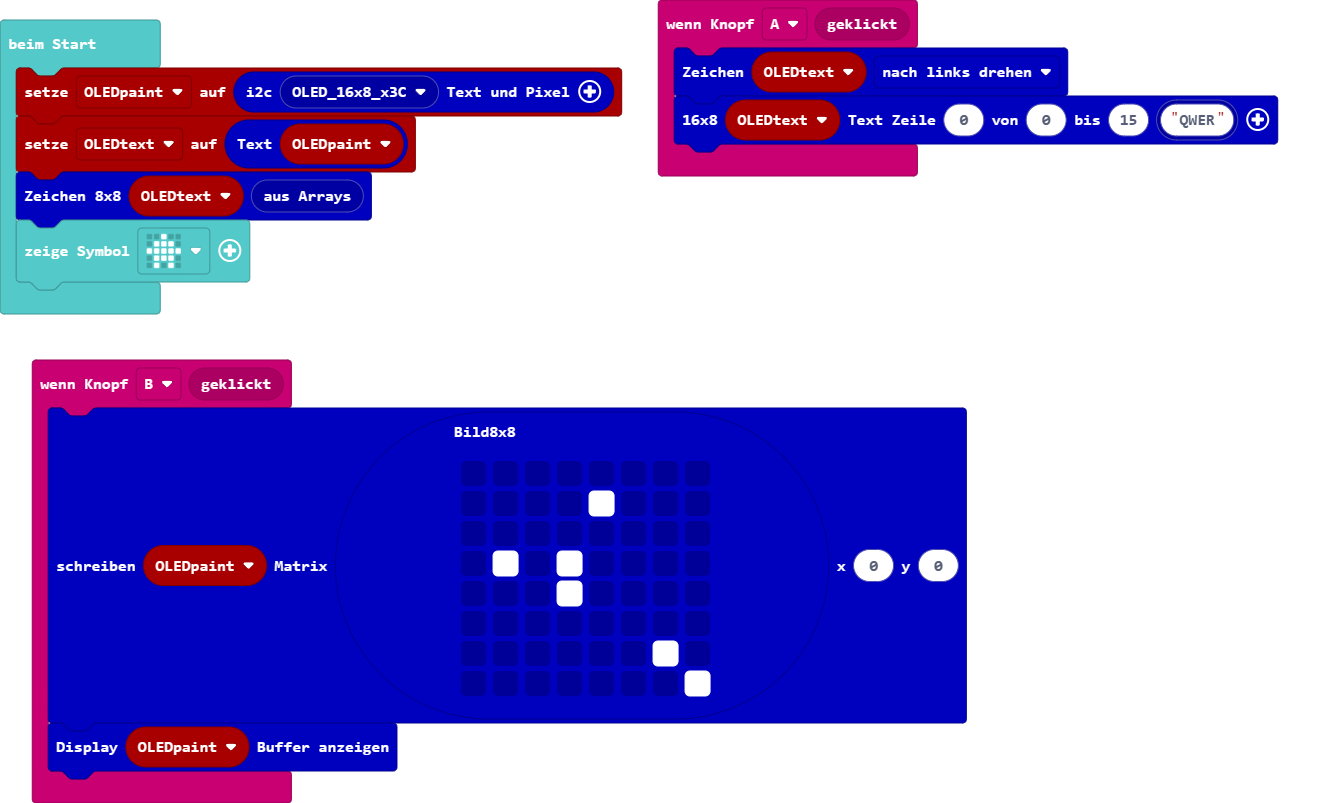
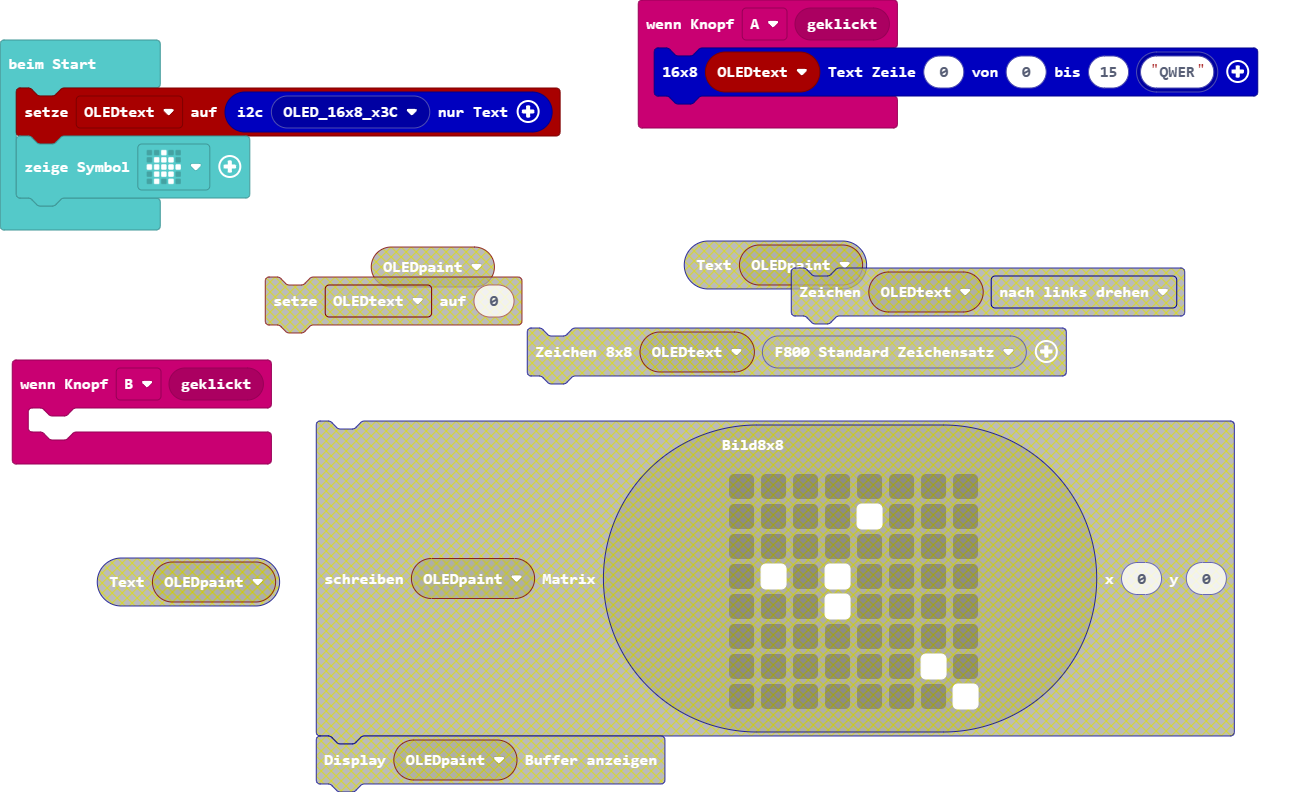
Aktualisiere pxt.json, main.blocks, main.ts, oledclass.ts

diff --git a/oledclass.ts b/oledclass.ts
@@ -48,10 +48,10 @@ Objektvariablen und Zeichensatz aus Arrays von calliope-net/oled-eeprom im Novem
         private readonly i2cCheck: boolean // i2c-Check
         private i2cError_OLED: number = 0 // Fehlercode vom letzten WriteBuffer (0 ist kein Fehler)
         // EEPROM
-        private i2cADDR_EEPROM: eADDR_EEPROM //= eADDR_EEPROM.EEPROM_x50
+        private i2cADDR_EEPROM = eADDR_EEPROM.EEPROM_x50
         private i2cError_EEPROM: number = 0
-        private qEEPROM_Startadresse_8x8: number = eEEPROM_Startadresse.kein_EEPROM
-        private qEEPROM_Startadresse_5x5: number = eEEPROM_Startadresse.kein_EEPROM
+        private qEEPROM_Startadresse_8x8 = eEEPROM_Startadresse.F800
+        private qEEPROM_Startadresse_5x5 = eEEPROM_Startadresse.EC00
 
         private qZeichenDrehen: eZeichenDrehen = eZeichenDrehen.nicht
         private qOLEDArrays_8x8: oledarrays_8x8
@@ -180,6 +180,7 @@ Objektvariablen und Zeichensatz aus Arrays von calliope-net/oled-eeprom im Novem
         //% p_8x8.shadow="oled_new_oledarrays_8x8"
         set_oledarrays_8x8(p_8x8: oledarrays_8x8) {
             this.qOLEDArrays_8x8 = p_8x8
+            this.qEEPROM_Startadresse_8x8 = eEEPROM_Startadresse.kein_EEPROM
         }
 
         //% group="Zeichensatz einstellen (ohne EEPROM)" subcategory="beim Start"
@@ -187,6 +188,7 @@ Objektvariablen und Zeichensatz aus Arrays von calliope-net/oled-eeprom im Novem
         //% p_5x5.shadow="oled_new_oledarrays_5x5"
         set_oledarrays_5x5(p_5x5: oledarrays_5x5) {
             this.qOLEDArrays_5x5 = p_5x5
+            this.qEEPROM_Startadresse_5x5 = eEEPROM_Startadresse.kein_EEPROM
         }
 
 

diff --git a/main.ts b/main.ts
@@ -1,23 +1,9 @@
 input.onButtonEvent(Button.A, input.buttonEventClick(), function () {
-    OLEDtext.zeichenDrehen(oled.eZeichenDrehen.links)
     OLEDtext.writeText16x8(0, 0, 15, oled.oled_text("QWER"))
 })
 input.onButtonEvent(Button.B, input.buttonEventClick(), function () {
-    OLEDpaint.writeImageOLED(oled.matrix8x8(`
-        . . . . . . . .
-        . . . . # . . .
-        . . . . . . . .
-        . # . # . . . .
-        . . . # . . . .
-        . . . . . . . .
-        . . . . . . # .
-        . . . . . . . #
-        `), 0, 0)
-    OLEDpaint.sendBuffer()
+	
 })
 let OLEDtext: oled.oledclass = null
-let OLEDpaint: oled.oledpaint = null
-OLEDpaint = oled.new_oledpaint(oled.oled_eADDR_OLED(oled.eADDR_OLED.OLED_16x8_x3C))
-OLEDtext = OLEDpaint.return_oledclass()
-OLEDtext.set_oledarrays_8x8(oled.new_oledarrays_8x8())
+OLEDtext = oled.new_oledclass(oled.oled_eADDR_OLED(oled.eADDR_OLED.OLED_16x8_x3C))
 basic.showIcon(IconNames.House)
